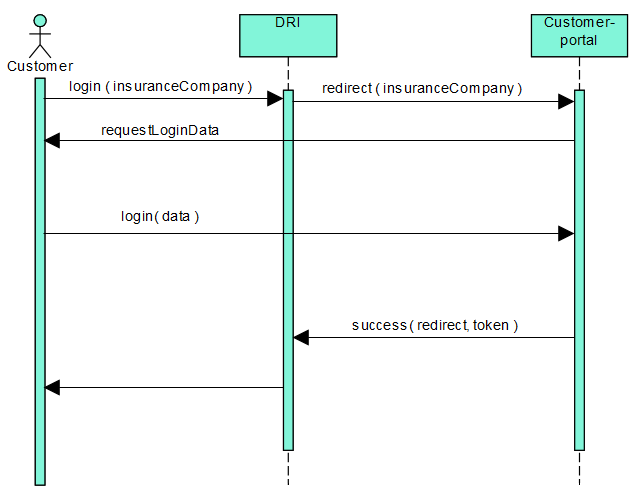
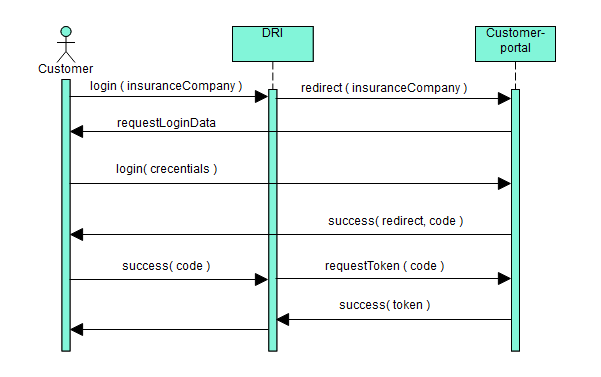
updated UML diagrams and headlines

diff --git a/docs/FRIDA_PensionInformation_OA3/description_de.md b/docs/FRIDA_PensionInformation_OA3/description_de.md
@@ -4,12 +4,12 @@ auf die die DRI-Plattform zugreift, um anschließend die Berechnung anhand der V
 bestimmten Vertrag aus der abgerufenen Liste kann eine Berechnung durchgeführt werden. Für all diese Schritte wird ein Token benötigt, das der Benutzer zuvor bei den Identitätsprovidern der Versicherungsgesellschaften anfordern muss. 
 </p>
 
-<img style="width:100%; height: auto;" src="FRIDA_PensionInformation_OA3/resources/User_de.png">     
+<img style="width:100%; height: auto;" src="FRIDA_PensionInformation_OA3/resources/User_en.png">     
 <p>Dieses UML-Diagramm beschreibt die Beziehung zwischen dem Kunden und den beiden Plattformen. Er interagiert mit dem DRI-Portal, um seine Rente zu berechnen.
 Die DRI-Plattform fragt dann die Verträge über die Kundenplattform ab. Darüber hinaus kann der Kunde über die Kundenplattform die sichtbaren Verträge konfigurieren.</p>
 
 ## Authentifizierung
-<img style="width:100%; height: auto;" src="FRIDA_PensionInformation_OA3/resources/Auth_de.png"> 
+<img style="width:100%; height: auto;" src="FRIDA_PensionInformation_OA3/resources/Auth_en.png"> 
 <p>Die Authentifizierung erfolgt ebenfalls über den Identity Provider des Versicherers. Das DRI leitet auf das entsprechende Login-Portal weiter. Nach einem erfolgreichen Login wird der Kunde wird der Kunde zum DRI weitergeleitet und das Token wird für die spätere Verwendung gespeichert.<br>
 Es wird empfohlen eine einfache Nutzererfahrung zu achten. So sollte beispielsweise eine Registrierung möglich sein, sofern noch kein Benutzerkonto beim Versicherungsanbieter vorhanden ist. 
 </p>
@@ -40,13 +40,13 @@ Hierbei können die Richtlinien vom BSI eingsetzt werden: https://www.bsi.bund.d
 
 Um eine vollständige End-to-End Verschlüsselung gewährleisten zu können, müssen Maßnahmen zur Sicherung der Daten auch beim Anbieter der Daten (z.B. Versicherung) und des Dienstes sichergestellt werden. Dazu gehört sowohl eine sichere Speicherung der Daten, als auch die Nutzung von Verschlüsselung innerhalb des internen Netzwerks. Die Sicherstellung dieser Richtlinien ist nicht Teil der Spezifikation von FRIDA. 
 
-## Rentenberechnung
-<img style="width:100%; height: auto;" src="FRIDA_PensionInformation_OA3/resources/Case1_de.png">  
+## Query Contracts
+<img style="width:100%; height: auto;" src="FRIDA_PensionInformation_OA3/resources/Query_contracts.png">  
 <p>Vor dem Start einer Berechnung muss der Anwender entscheiden, welche Verträge er der BBS im Kundenportal zugänglich machen möchte.
 Dazu kann er auf das Rentencockpit der BBS zugreifen, die dann eine Anfrage mit einem Token an das Kundenportal sendet. 
 Ist dieser Vorgang erfolgreich, werden die sichtbaren Verträge an den Kunden zurückgegeben. </p> <br>
 <p>Der Kunde hat auch die Möglichkeit, einen ausgewählten Vertrag zu berechnen, den er an die DRI senden kann. Die BBS fragt dann die Stammdaten des 
-ausgewählten Vertrages aus dem Kundenportal mit der Methode "requestMasterData(selectedContract, token)" die Anfrage enthält den ausgewählten
+ausgewählten Vertrages aus dem Kundenportal mit der Methode "ContractDetails(contract_id, token)" die Anfrage enthält den ausgewählten
 Die Anfrage enthält den ausgewählten Vertrag und ein Token, bei Erfolg erhält die DRI die Stammdaten und berechnet daraus die Rentenhöhe, die dann an den Kunden zurückgegeben wird.
 an den Kunden zurückgegeben wird.</p>
   

diff --git a/docs/FRIDA_PensionInformation_OA3/description_en.md b/docs/FRIDA_PensionInformation_OA3/description_en.md
@@ -41,13 +41,13 @@ Here the guidelines of the BSI can be used: https://www.bsi.bund.de/DE/Themen/Un
 
 In order to be able to guarantee complete end-to-end encryption, measures to secure the data must also be ensured at the provider of the data (e.g. insurance) and the service. This includes both secure storage of the data, as well as the use of encryption within the internal network. Ensuring these guidelines is not part of the FRIDA specification. 
 
-## Pension Calculation
-<img style="width:100%; height: auto;" src="FRIDA_PensionInformation_OA3/resources/Case1_en.png">  
+## Query Contracts
+<img style="width:100%; height: auto;" src="FRIDA_PensionInformation_OA3/resources/Query_contracts.png">  
 <p>Before starting any calculation the user has to decide which contracts he wants to make accessible to the DRI on the customer portal.
 He can also access the pension cockpit of the DRI which then sends a request with a token to the customer portal. 
 If this process succeed the visible contracts get returned to the customer. </p> <br>
 <p>The customer also has the option to calculate a selected contract which he can send to the DRI. The DRI then asks for the master data of the 
-selected contract from the customer portal with the method "requestMasterData(selectedContract, token)" the request contains the selected
+selected contract from the customer portal with the method "ContractDetails(contract_id, token)" the request contains the selected
 contract and a token, if this process succeeds the DRI recieves the master data and uses that data to calculate the pension amout, which then
 gets returned to the customer.</p>
   
